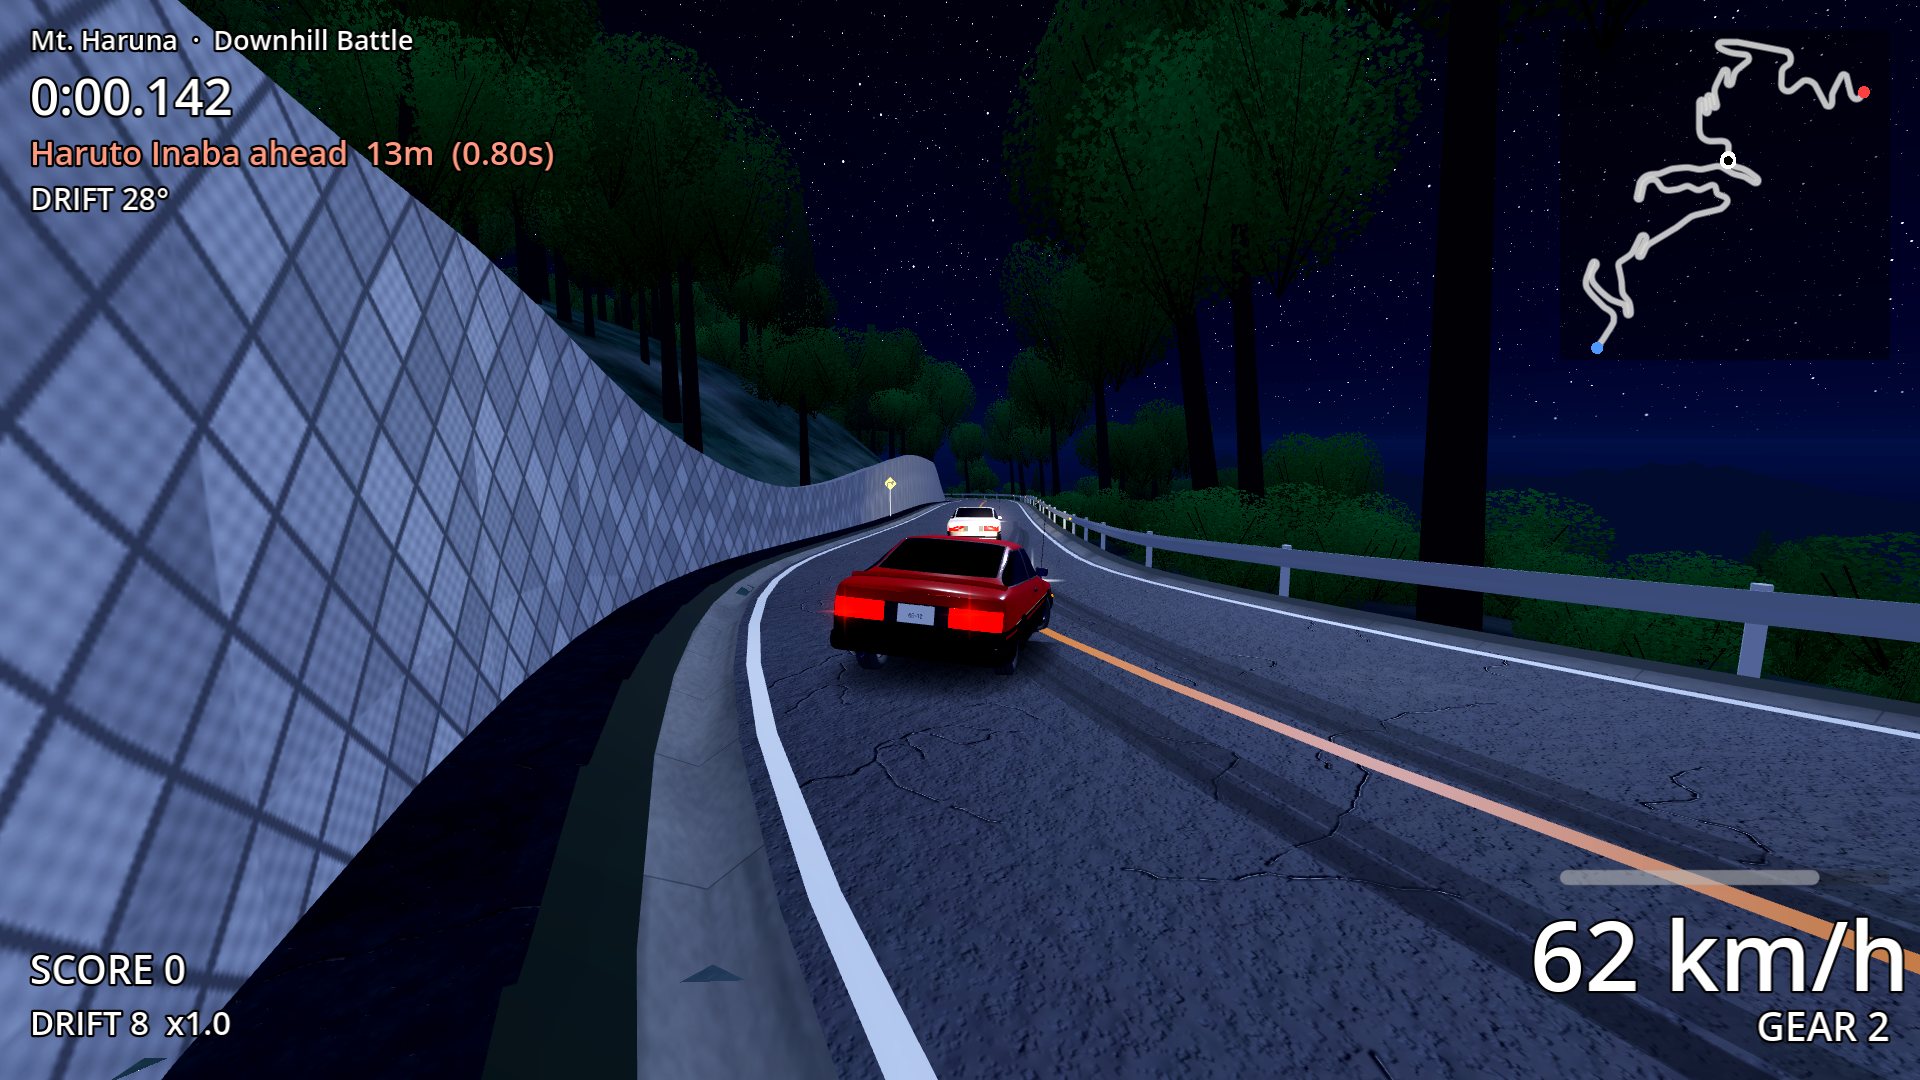
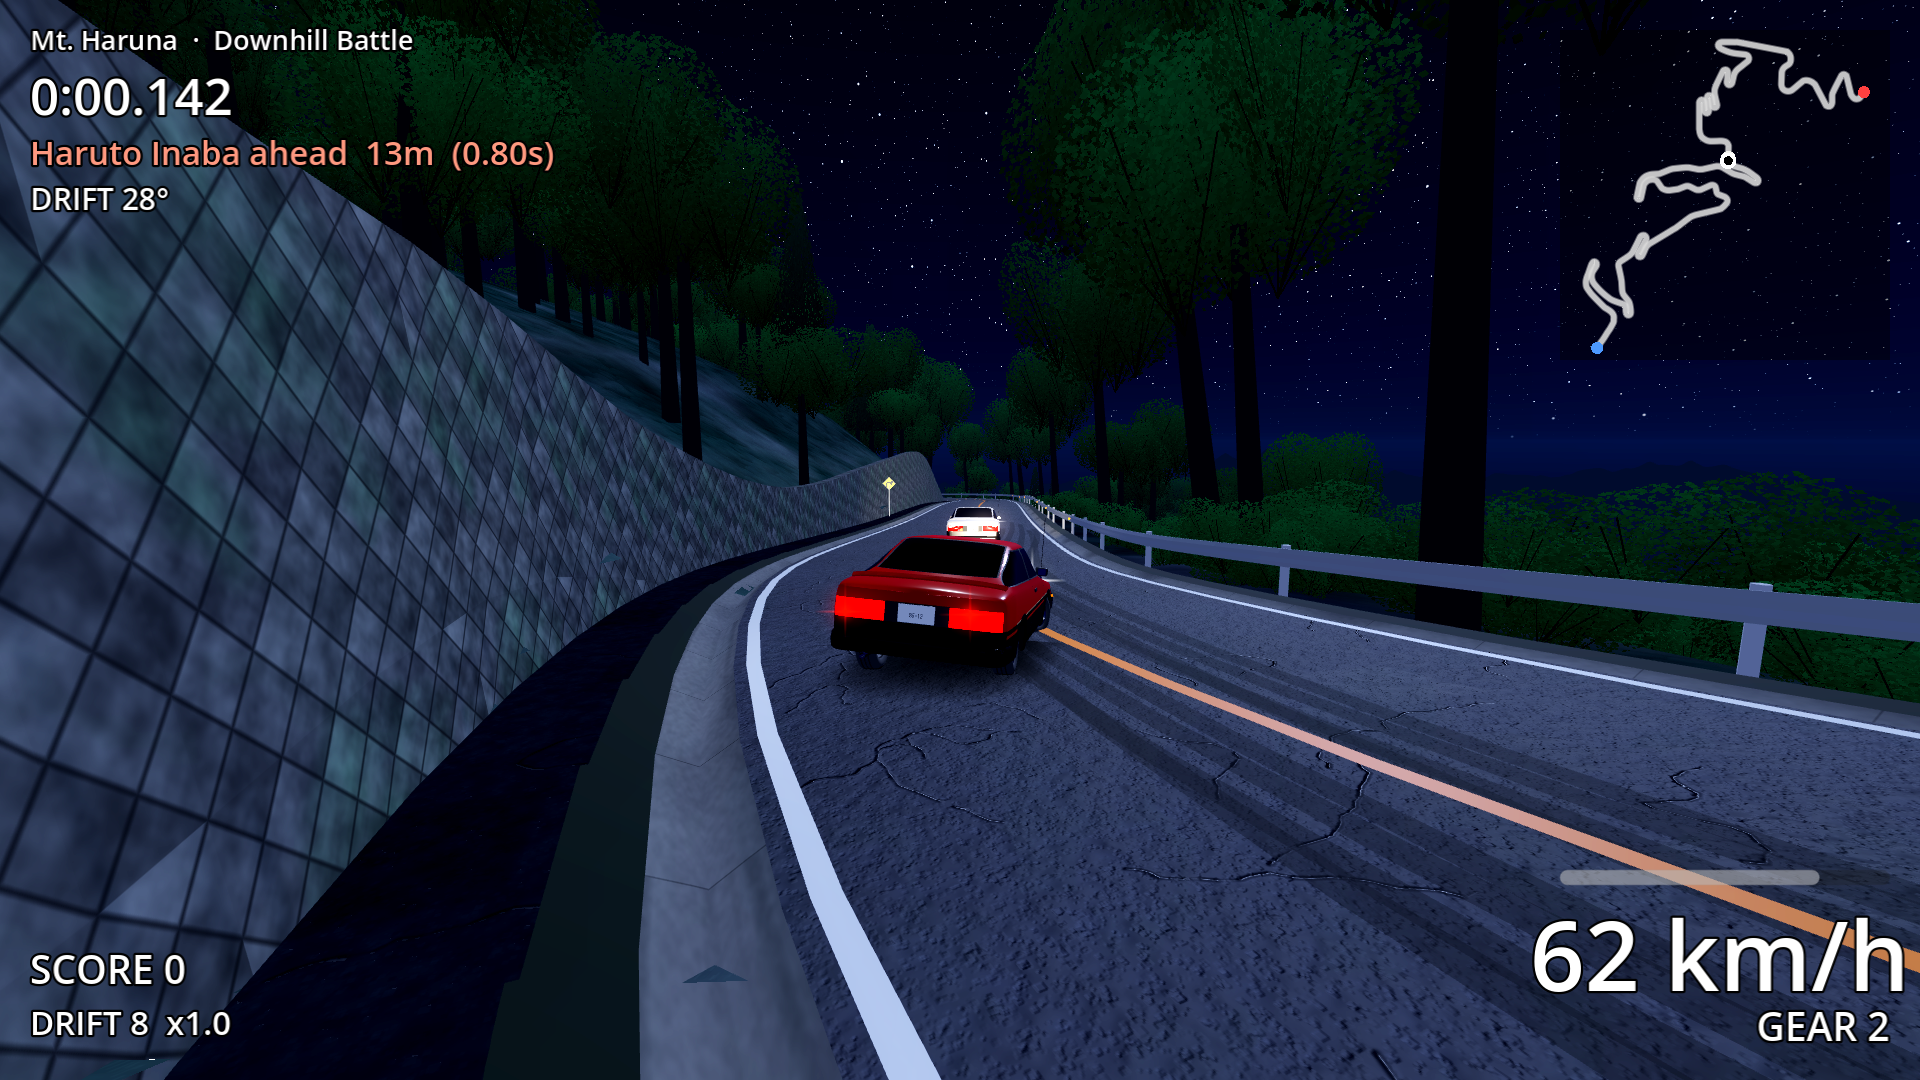
Retaining walls like the anime passes: tall diagonal stone masonry rising straight from the road edge, slight batter, mossy weathered stones
Claude-Session: https://claude.ai/code/session_01LLcQYzyEQizYewCt6b7etJ

diff --git a/tools/make_textures.py b/tools/make_textures.py
@@ -261,6 +261,33 @@ def canopy():
     save("canopy.png", img * 255, "L")
 
 
+def masonry():
+    """Mountain-road retaining wall: squared stones laid on the diagonal in a
+    criss-cross pattern, dark mortar joints, mottled with moss and water
+    streaks. Tileable, one tile = 3 m."""
+    n = 512
+    yy, xx = np.mgrid[0:n, 0:n].astype(float)
+    s = n / 6.0                          # stones per tile edge (diagonal grid)
+    u = (xx + yy) / s
+    v = (xx - yy) / s
+    fu, fv = u - np.floor(u), v - np.floor(v)
+    joint = np.minimum(np.minimum(fu, 1 - fu), np.minimum(fv, 1 - fv))
+    mortar = np.clip(1.0 - joint / 0.05, 0, 1)
+    cell = (np.floor(u) * 13 + np.floor(v) * 7) % 17 / 17.0
+    face = 0.5 + (cell - 0.5) * 0.25 + (tile_noise(n, 24, 3, 61) - 0.5) * 0.35
+    # stones are slightly domed: lighter toward the upper-left of each face
+    face += (0.5 - fu) * 0.06 + (0.5 - fv) * 0.04
+    lum = face * (1 - mortar * 0.65)
+    moss = np.clip(tile_noise(n, 4, 4, 62) - 0.52, 0, 1) * 2.2
+    streak = tile_noise(n, 22, 2, 63)
+    streak = np.repeat(streak[:1, :], n, 0) * (0.5 + 0.5 * tile_noise(n, 2, 2, 64))
+    wet = np.clip(streak - 0.55, 0, 1) * 1.8
+    r = lum * (0.62 - moss * 0.18) - wet * 0.12
+    g = lum * (0.64 + moss * 0.05) - wet * 0.1
+    b = lum * (0.62 - moss * 0.12) - wet * 0.08
+    save("masonry.png", np.stack([r, g, b], -1) * 255)
+
+
 if __name__ == "__main__":
     asphalt()
     ground()
@@ -270,3 +297,4 @@ if __name__ == "__main__":
     leaves()
     cedar()
     canopy()
+    masonry()
